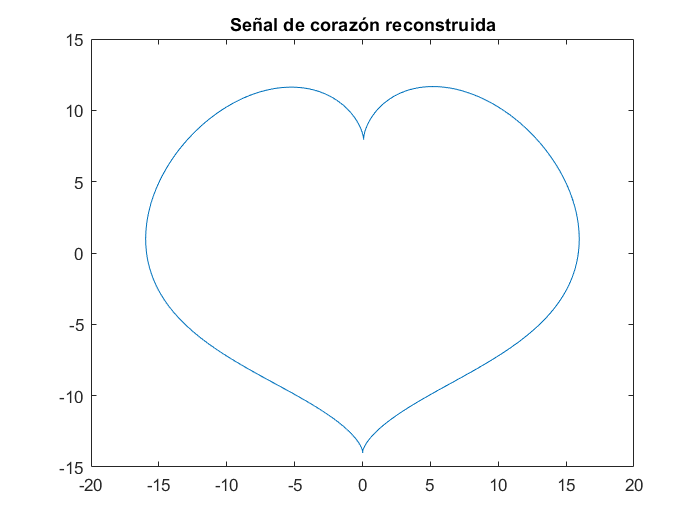
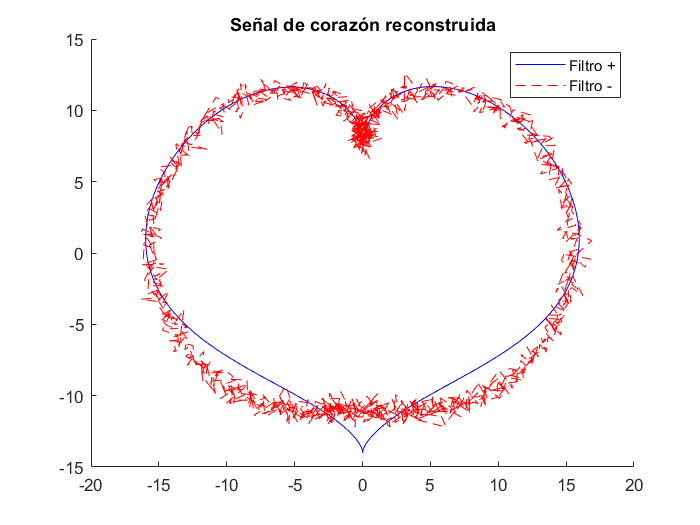
imagen corregida y añadido de filtrado suave al script de tu corazón bb

Changed region(s): [[0.18, 0.1524, 0.84, 0.8533], [0.81, 0.0914, 0.9, 0.1829]]

diff --git a/taller6/tu_corazon_bb.m b/taller6/tu_corazon_bb.m
@@ -31,8 +31,17 @@ visualize_XY_noisy_signal(x, x2, y, y2, theta);
 visualize_noisy_signal(z, z2, ['corazón ruidoso']);
 
 %% obtención de los coeficientes de fourier y graficado de estos
+% también se hace en estas lineas el filtrado agresivo de la señal
 [z2_fft_clean] = plot_clean_vs_noisy_fft(theta, dt, max(abs(z2))/20, z2);
 z2_reconstruct = ifft(z2_fft_clean);
+
+%% obtención de los coeficientes de fourier filtrados 
+%con un filtro menos agresivo
+
+z_fft = fft(z2);
+z_fft_clean2 = z_fft; 
+z_fft_clean2(2:98) = 0;
+z2_reconstruct2 = ifft(z_fft_clean2);
 
 %% graficado de los ángulos de los coeficientes de fourier
 plot_angles_fft(z, z2);
@@ -40,10 +49,13 @@ plot_angles_fft(z, z2);
 %% muestra de la señal reconstruida a partir del filtrado de los 
 % coeficientes de fourier y la ifft
 figure 
-plot(z2_reconstruct);
-title(["Señal de corazón reconstruida"]);
-
-%%
+hold on
+    plot(z2_reconstruct, '-b');
+    plot(z2_reconstruct2, '--r');
+    title(['Señal de corazón reconstruida']);
+    legend(['Filtro +'],['Filtro -']);
+hold off
+%% 
 visualize_XY_noisy_signal(x, real(z2_reconstruct), y, imag(z2_reconstruct), theta);
 
 % fuentes: 
